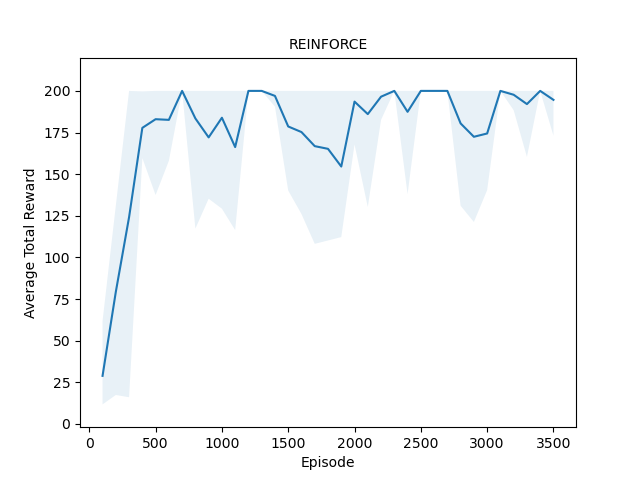
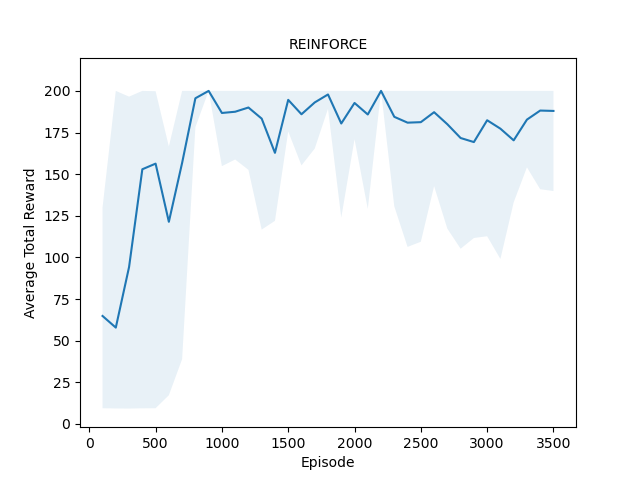
fixing error with baseline

Changed region(s): [[0.25, 0.1875, 0.875, 0.3438], [0.1562, 0.3125, 0.2812, 0.7812], [0.2188, 0.25, 0.25, 0.2812]]

diff --git a/homeworks/hw1/code/pg/pg.py b/homeworks/hw1/code/pg/pg.py
@@ -63,7 +63,7 @@ class PolicyGradient(nn.Module):
         self.actor.to(self.device)
         self.actor.to(self.device)
         self.optim_actor = optim.Adam(self.actor.parameters(), lr_actor)
-        self.optim_critic = optim.Adam(self.actor.parameters(), lr_critic)
+        self.optim_critic = optim.Adam(self.critic.parameters(), lr_critic)
         pass
         # END STUDENT SOLUTION
 
